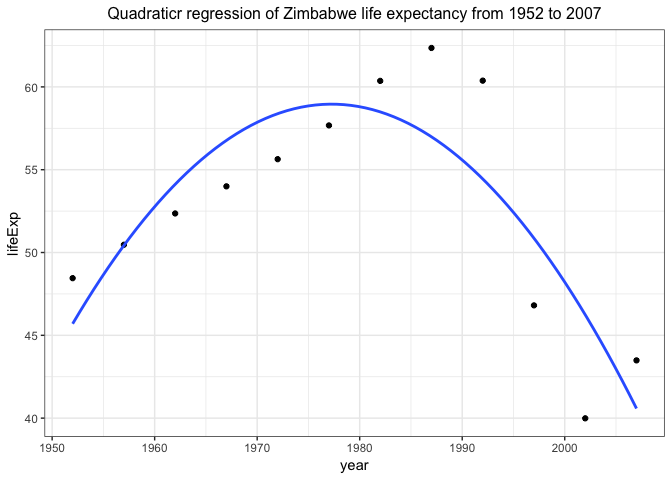
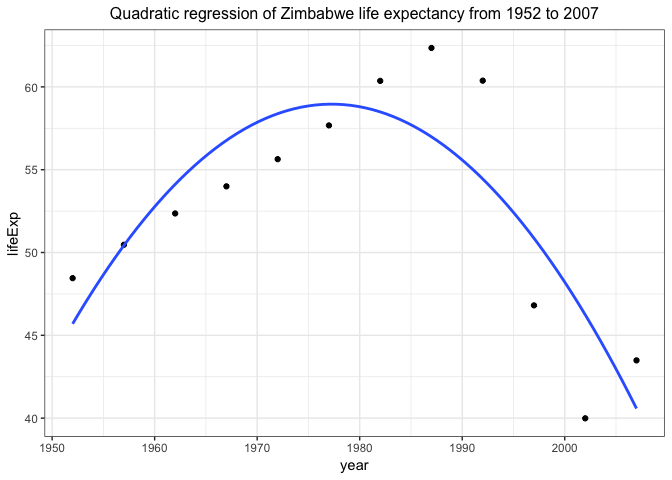
version 4

Changed region(s): [[0.1562, 0.0, 0.9062, 0.0625]]

diff --git a/hw06-Irissq28.md b/hw06-Irissq28.md
@@ -230,7 +230,7 @@ qua_fit_plot <- function(dat, offset = 1952, country){
   ggplot(dat,aes(x = year, y = lifeExp)) +
   geom_point() +
   geom_smooth(method = "lm",formula = y ~ I(x - offset) + I((x - offset)^2), se = FALSE) +
-  ggtitle(paste("Quadraticr regression of", country , "life expectancy from 1952 to 2007")) +
+  ggtitle(paste("Quadratic regression of", country , "life expectancy from 1952 to 2007")) +
   # the classic dark-on-light ggplot2 theme
   theme_bw() +
   # title is centerd, title size is adjusted
